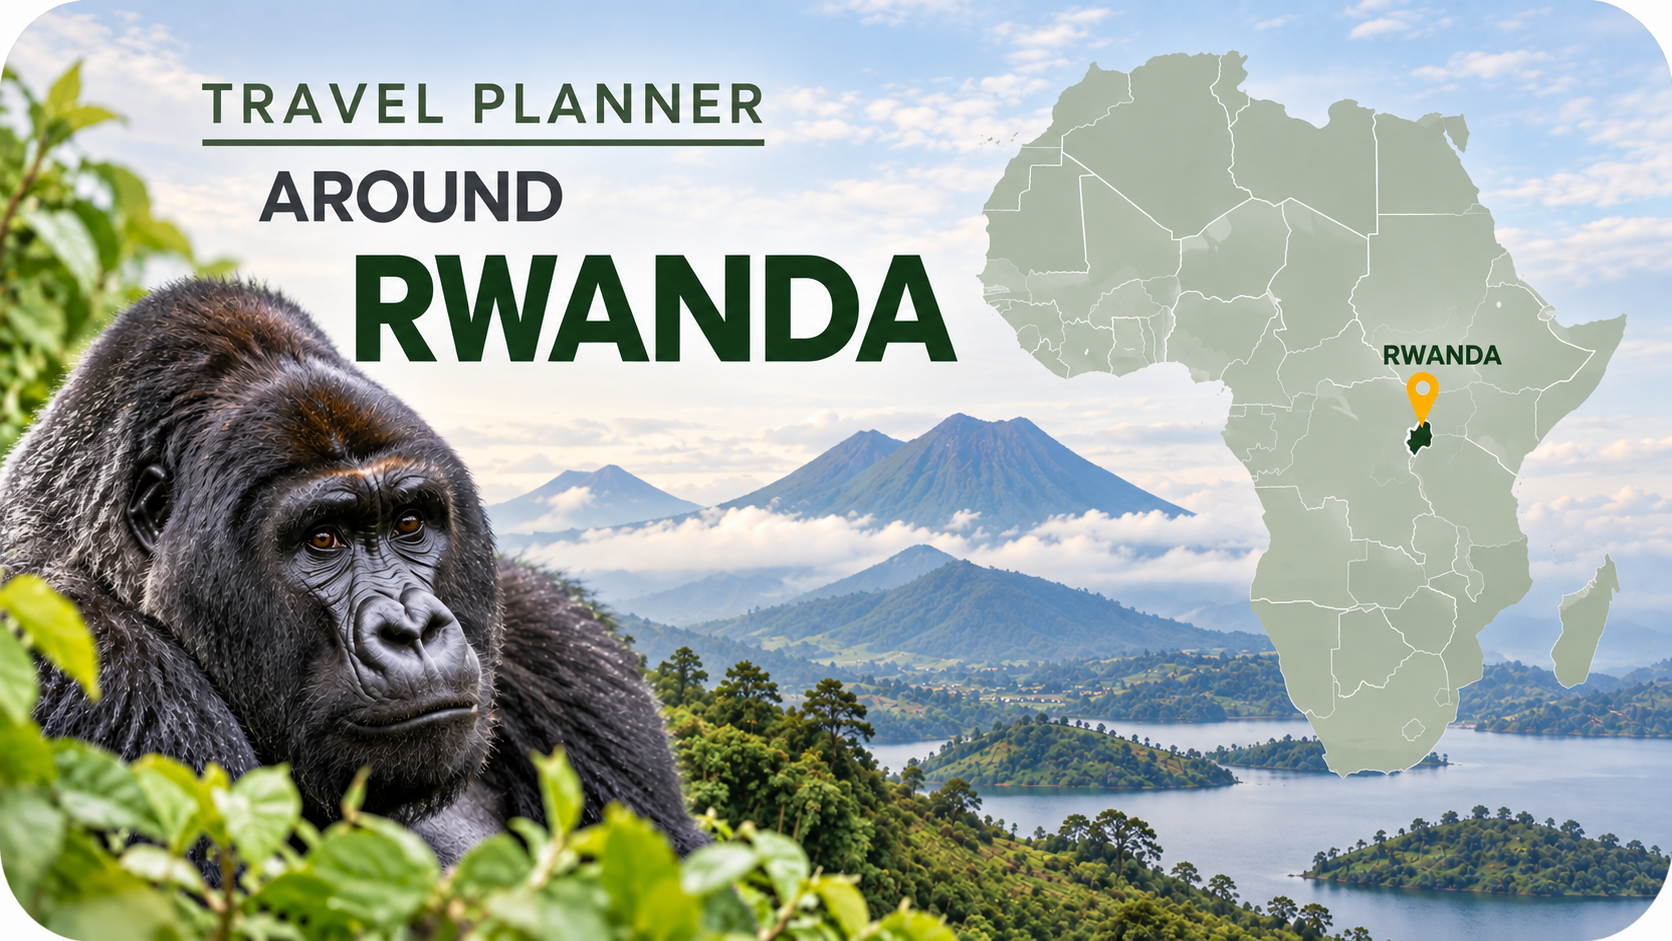
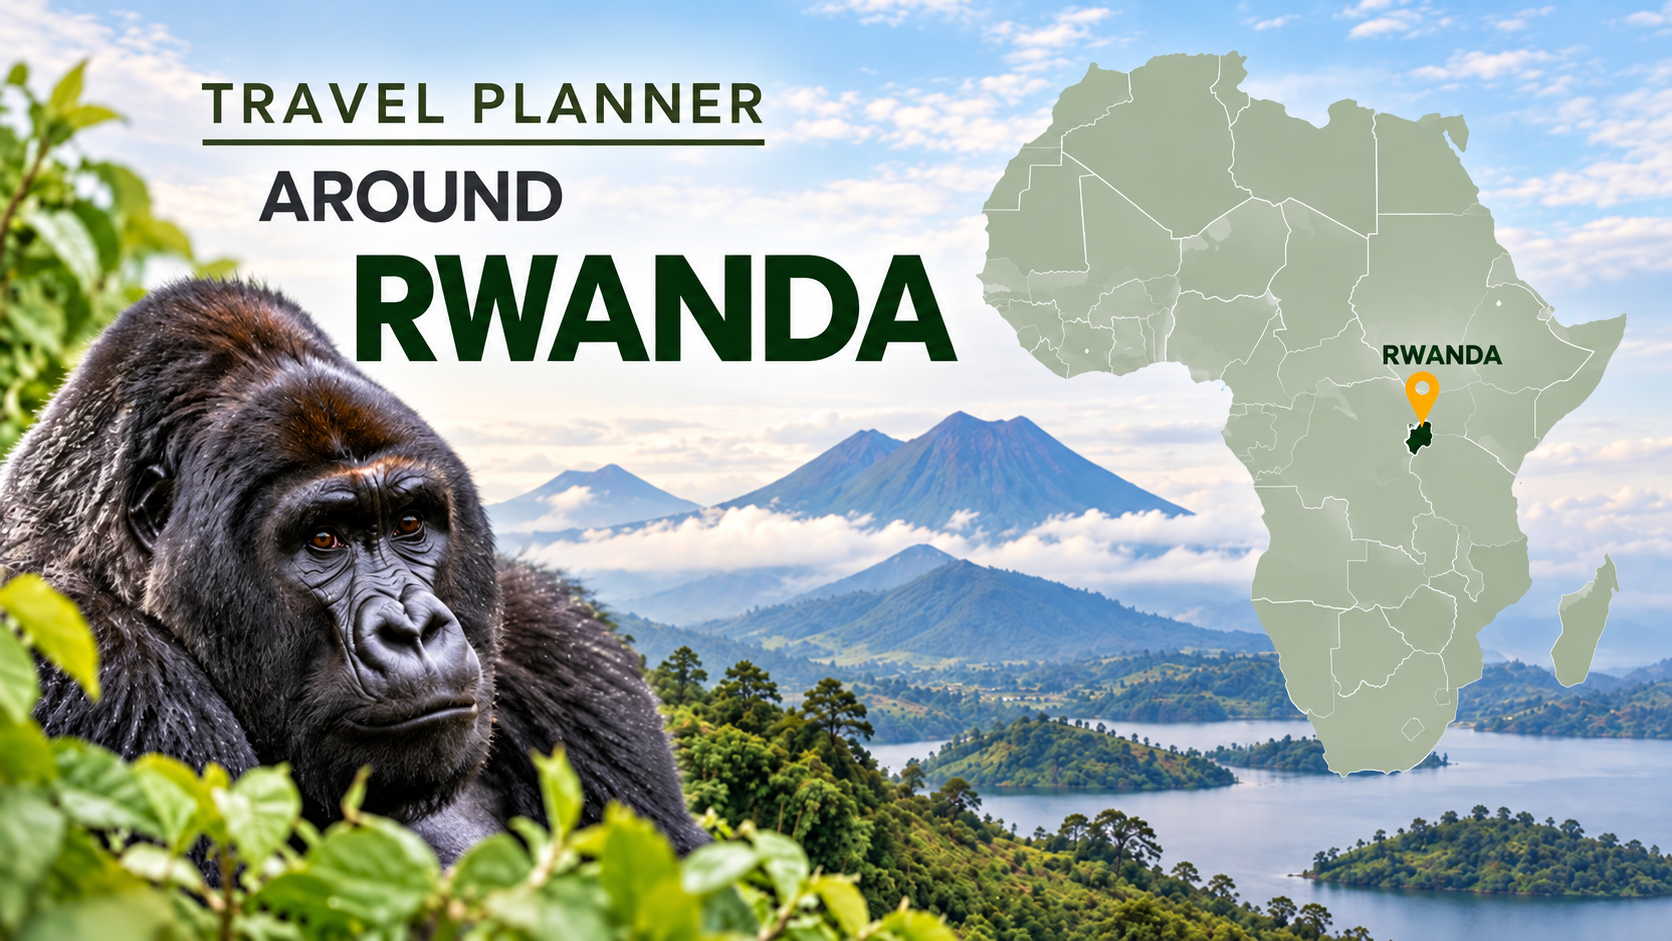
Day3

diff --git a/src/data/siteContent.js b/src/data/siteContent.js
@@ -1227,7 +1227,7 @@ export const RWANDA_PAGE = {
         'Timing between destinations',
         'Practical travel tips and logistics',
       ],
-      image: '/Pictures/Travel_Planner_Cards/Rwanda.png',
+      image: '/Pictures/Travel_Planner_Cards/Rwanda.PNG',
     },
     {
       icon: 'Signpost',
